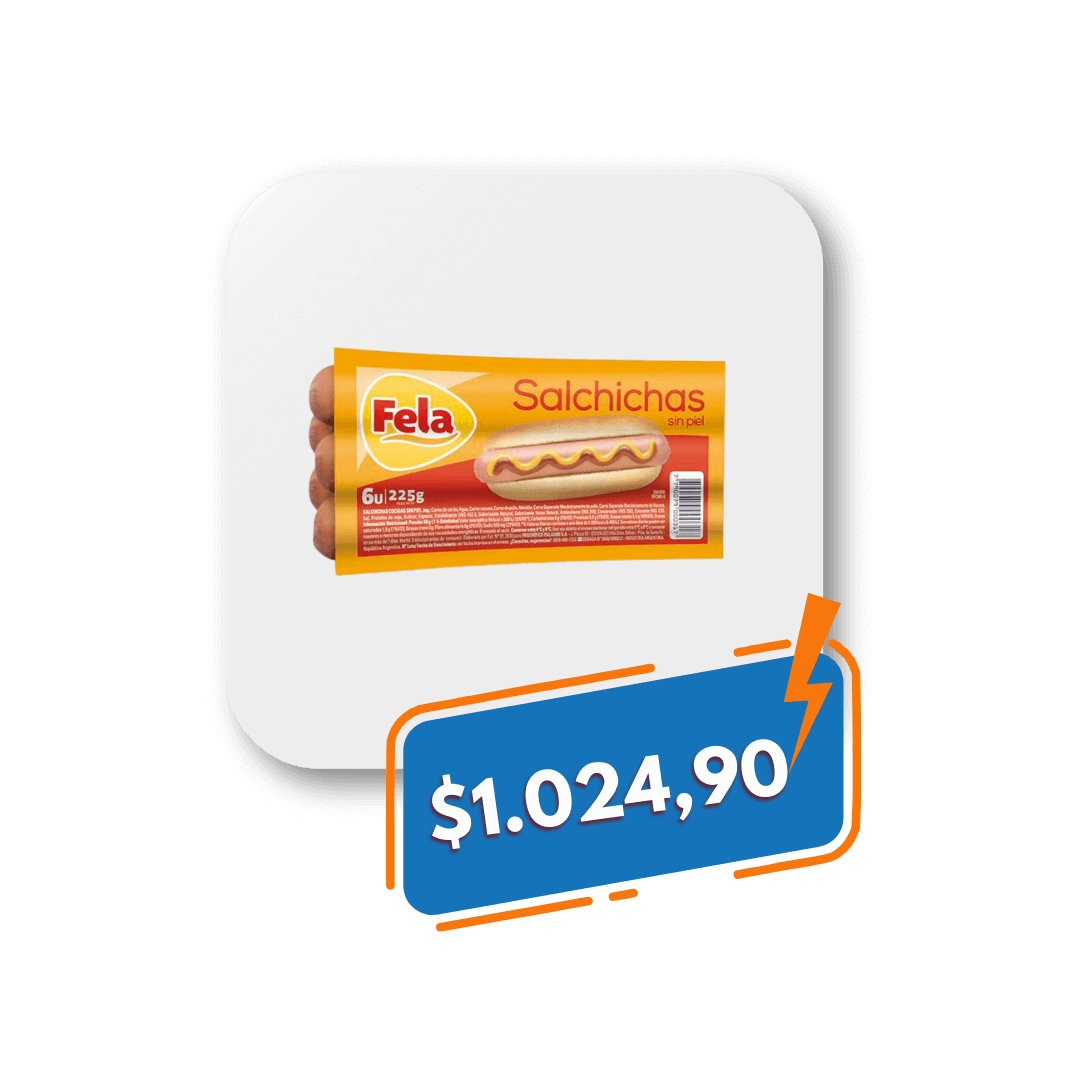
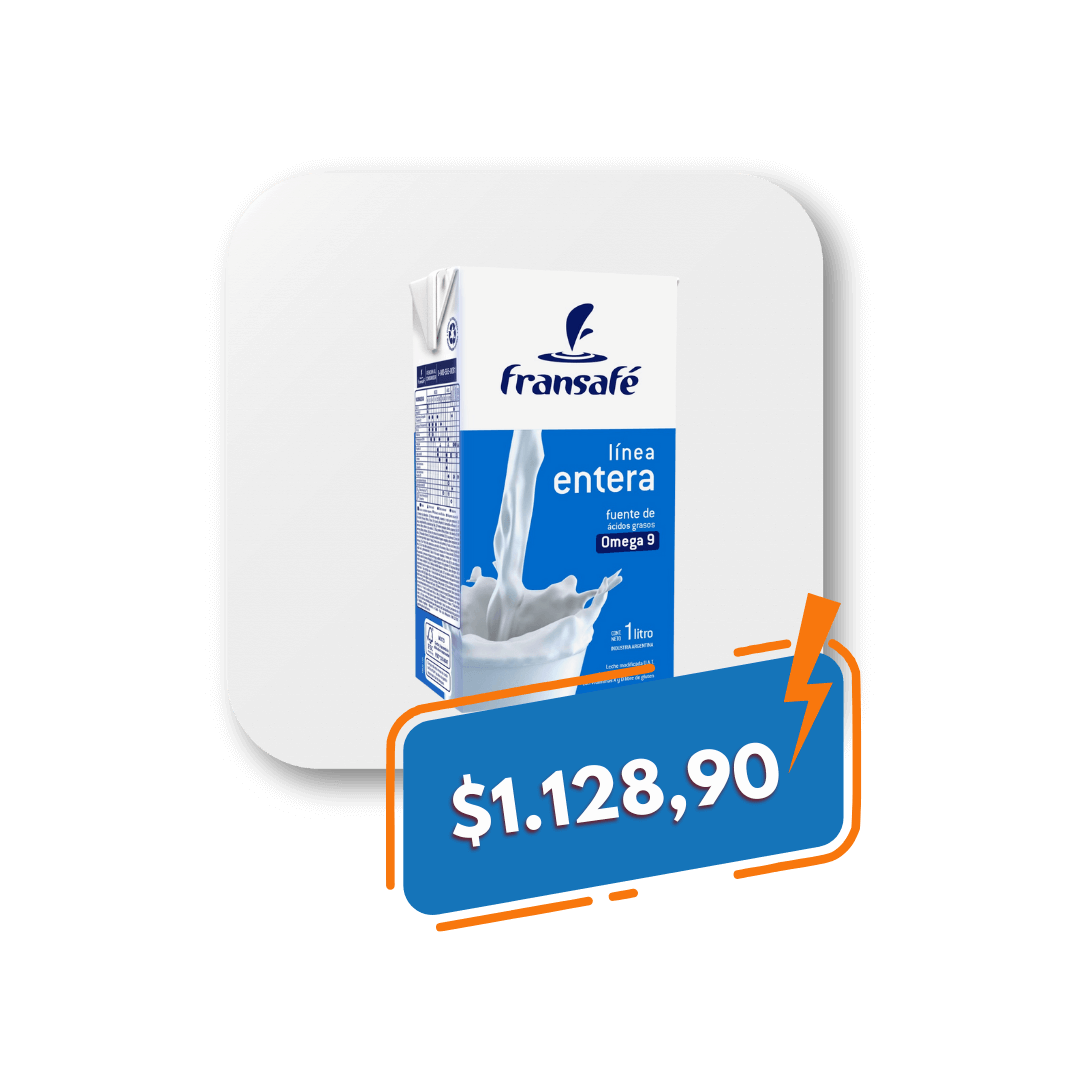
-

Changed region(s): [[0.275, 0.2444, 0.6722, 0.6722], [0.3972, 0.6722, 0.7333, 0.7944]]

diff --git a/src/components/atoms/carousel/Carousel.jsx b/src/components/atoms/carousel/Carousel.jsx
@@ -21,10 +21,13 @@ export const Carousel = () => {
 
   const ofertas = [
     { path: '/assets/ofertas/1.png', title: 'QUESO CREMOSO DON FELIX x Kg'},
-    { path: '/assets/ofertas/2.png', title: 'CERVEZA ORTUZAR PACK x6'},
-    { path: '/assets/ofertas/4.png', title: 'SALCHICHAS FELA x6u'},
-    { path: '/assets/ofertas/5.png', title: 'AGUA VILLAMANAOS 6Lts'},
-    { path: '/assets/ofertas/6.png', title: 'AZUCAR CHANGUITO x1Kg'},
+    { path: '/assets/ofertas/2.png', title: 'PAN DULCE CON FRUTAS VALENTE'},
+    { path: '/assets/ofertas/3.png', title: 'AZUCAR CHANGUITO x1Kg'},
+    { path: '/assets/ofertas/4.png', title: 'LECHE LARGA VIDA FRANSAFE'},
+    { path: '/assets/ofertas/5.png', title: 'MORTADELA PALADINI x Kg'},
+    { path: '/assets/ofertas/6.png', title: 'SALCHICHAS FELA x6u'},
+    { path: '/assets/ofertas/8.png', title: 'SALCHICHAS PALADINI x6u'},
+    { path: '/assets/ofertas/10.png', title: 'AGUA SABIORIZADA PLACER x500ml'},
   ];
   
   return (
